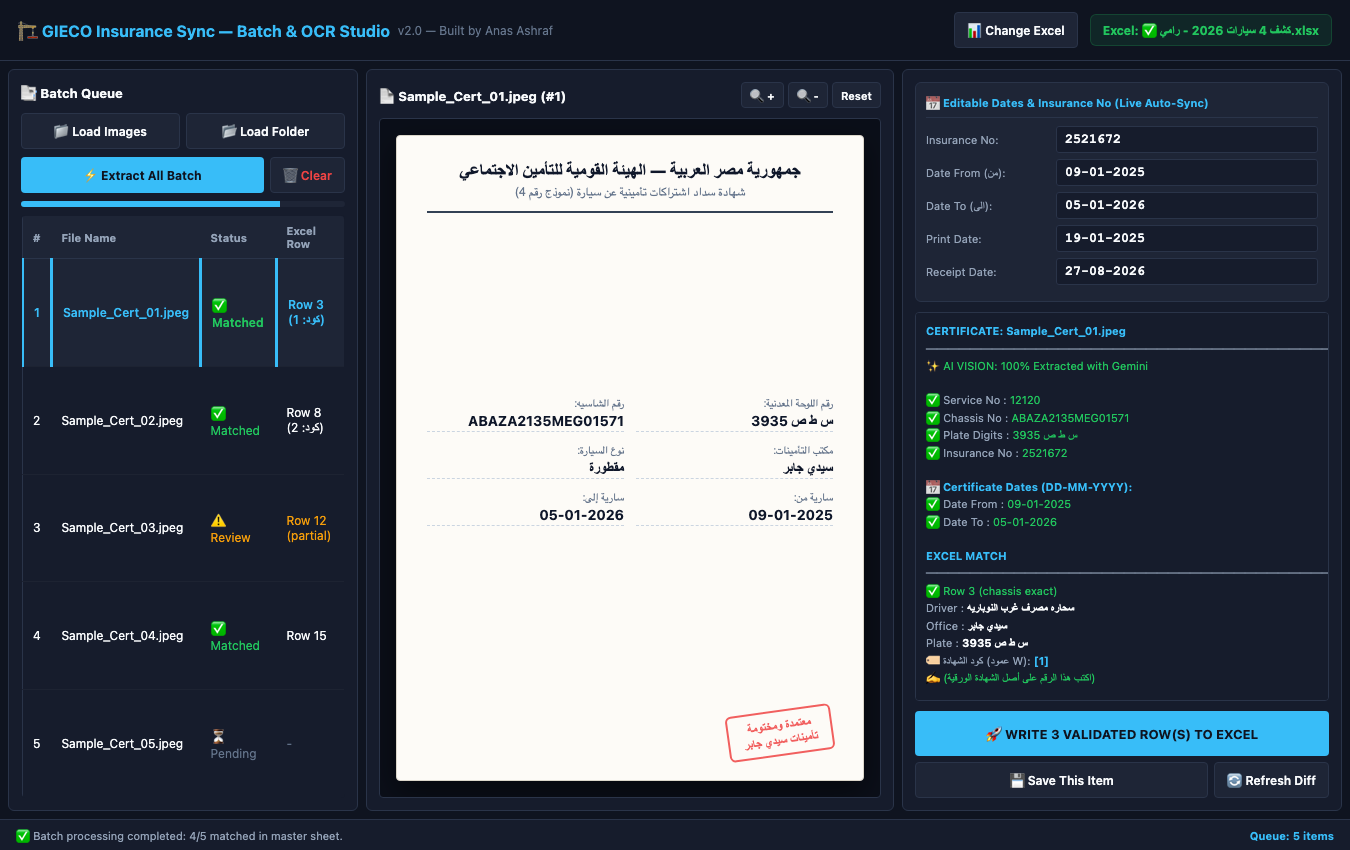
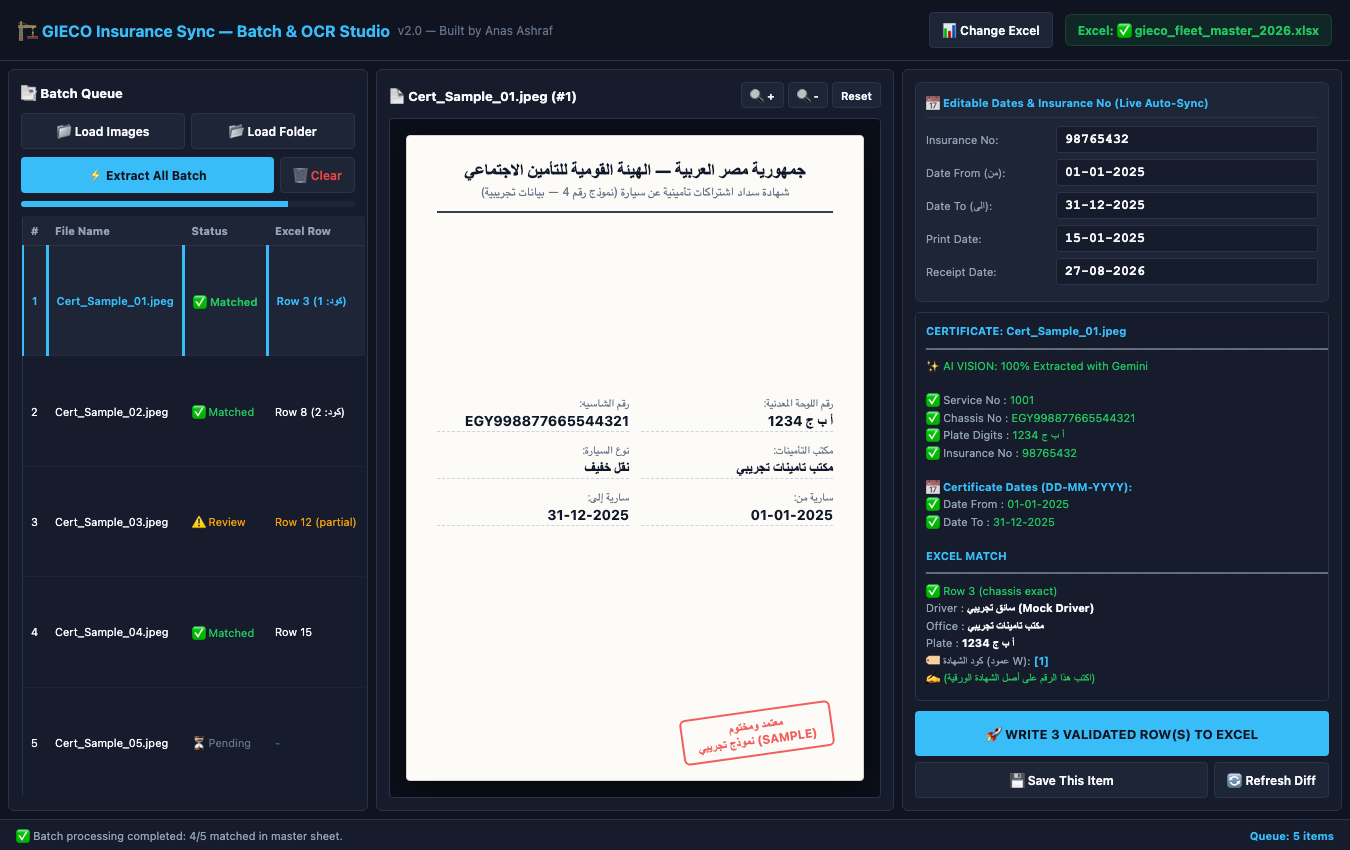
security(sanitize): replace all sample data, filenames, and screenshot with 100% synthetic mock data

diff --git a/excel_handler.py b/excel_handler.py
@@ -1,15 +1,16 @@
 """
-excel_handler.py — Master Excel Reader/Writer for GIECO Insurance Sync
+excel_handler.py — Safe Excel updates via win32com
 
-Handles reading and writing to كشف 4 سيارات 2026 - رامي.xlsx:
-    - Search by Chassis Number (Col 19) or Plate Digits (Col 18)
-    - Auto-increment كود شهادة (Col 23)
-    - Write exactly 7 target fields per certificate
-    - Preserve existing formulas (Col 32)
+Handles reading and writing to gieco_fleet_master_2026.xlsx:
+- Reads master vehicle list with chassis and plate numbers
+- Matches OCR extracted data against sheet rows
+- Prepares and validates changes (diff generation)
+- Applies updates using win32com (Excel COM automation) to preserve all formulas
+- Highlights updated rows/cells in Soft Green
+- Creates automatic timestamped backups before applying changes
 
 Usage:
-    from excel_handler import ExcelHandler
-    handler = ExcelHandler("كشف 4 سيارات 2026 - رامي.xlsx")
+    handler = ExcelHandler("gieco_fleet_master_2026.xlsx")
     match = handler.find_vehicle("34271")
     diff = handler.prepare_update(match, ocr_data)
     handler.apply_update(diff, dry_run=True)

diff --git a/gui_app.py b/gui_app.py
@@ -51,9 +51,9 @@ from excel_handler import ExcelHandler
 class GIECOInsuranceSyncApp:
     """Main application window for GIECO Insurance Sync V2 with Batch Support."""
 
-    # Default Excel path
+    # Default Excel path (Mock fleet master)
     DEFAULT_EXCEL = str(
-        Path(__file__).parent / "test_data" / "كشف 4 سيارات 2026 - رامي.xlsx"
+        Path(__file__).parent / "test_data" / "gieco_fleet_master_2026.xlsx"
     )
 
     # ── Single Unified Palette & Material Tokens ──
